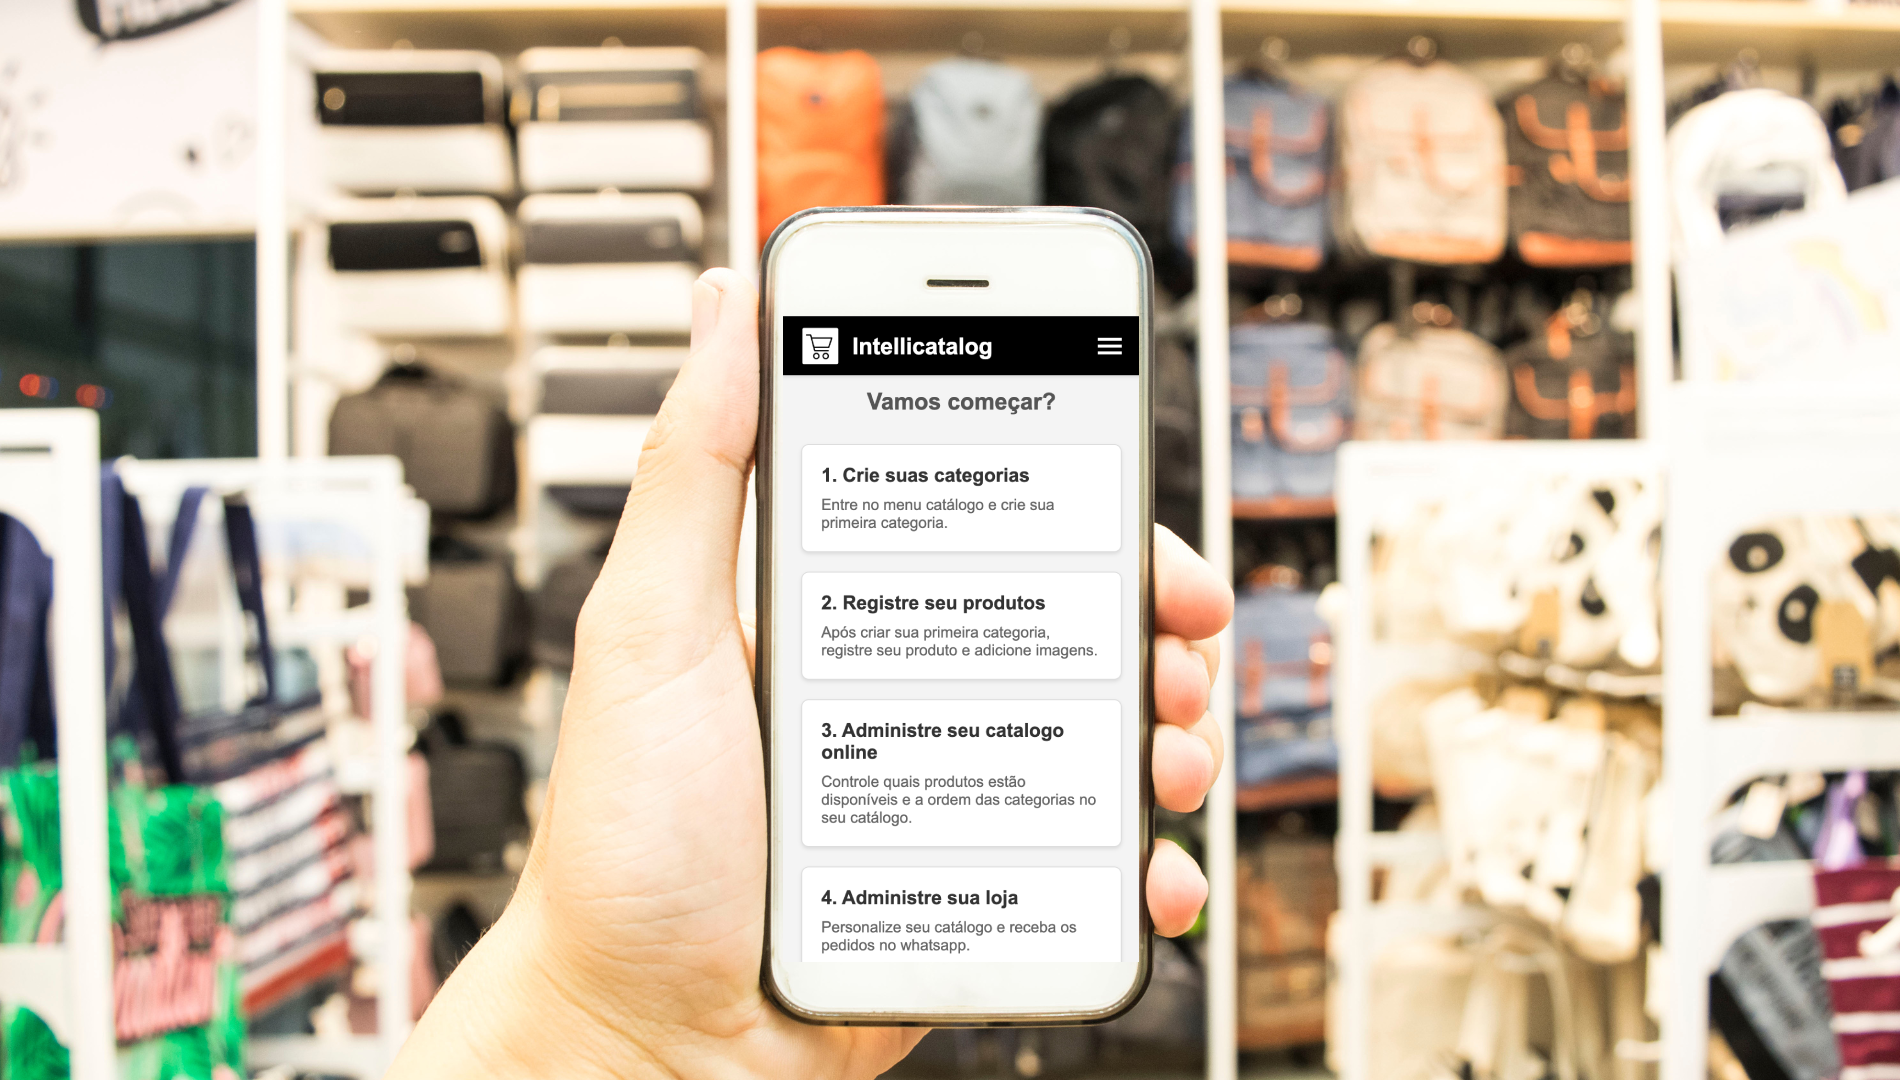
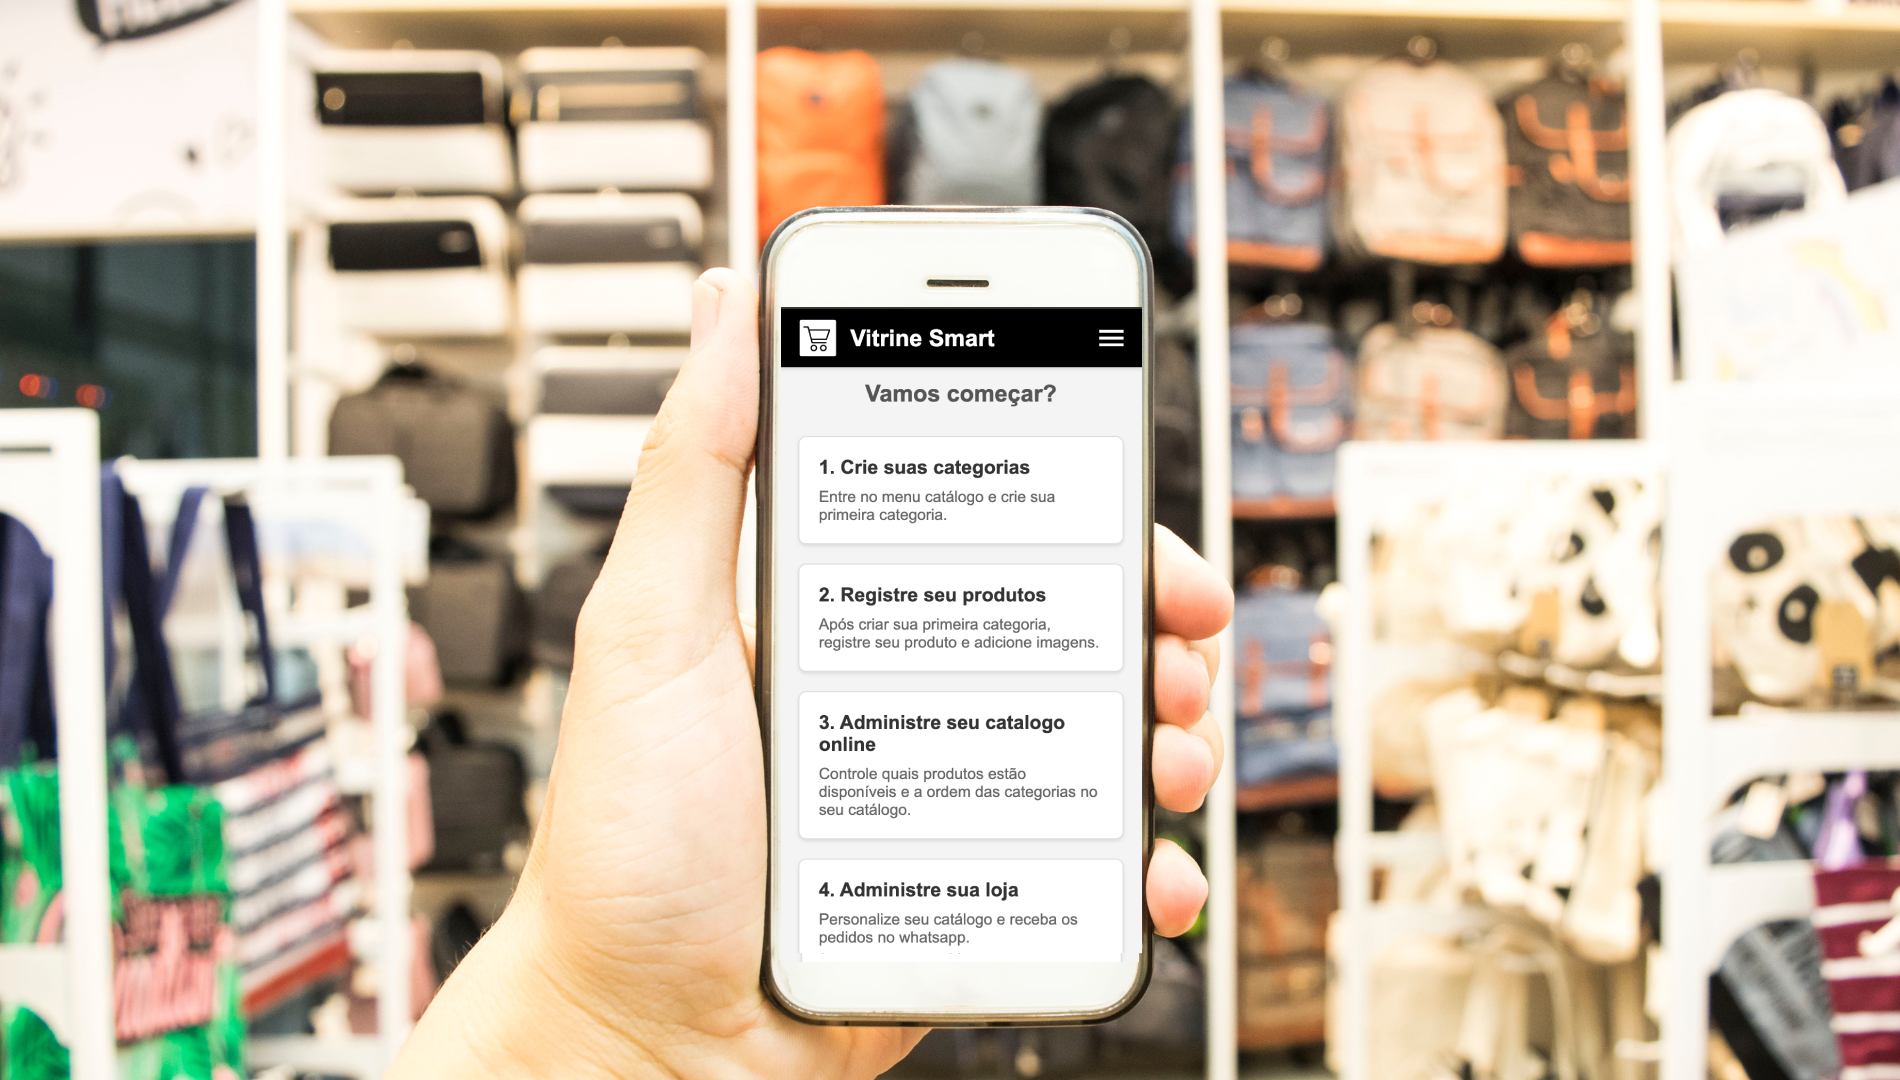
fix image and wordings

diff --git a/index.html b/index.html
@@ -5,7 +5,7 @@
         <meta name="viewport" content="width=device-width, initial-scale=1, shrink-to-fit=no" />
         <meta name="description" content="" />
         <meta name="author" content="" />
-        <title>Intellicatalog - Seu catálogo inteligente</title>
+        <title>Vitrine Smart - Seu catálogo inteligente</title>
         <!-- Favicon-->
         <link rel="icon" type="image/x-icon" href="assets/favicon.png" />
         <!-- Bootstrap icons-->
@@ -22,8 +22,8 @@
         <!-- Navigation-->
         <nav class="navbar navbar-light bg-light static-top">
             <div class="container">
-                <a class="navbar-brand" href="#!">Intellicatalog</a>
-                <a class="btn btn-dark" href="#signup">Acesse aqui</a>
+                <a class="navbar-brand" href="#!">Vitrine Smart</a>
+                <a class="btn btn-dark" href="https://www.vitrinesmart.com/b/">Acesse aqui</a>
             </div>
         </nav>
         <!-- Masthead-->
@@ -83,7 +83,7 @@
                     <div class="col-lg-6 order-lg-2 text-white showcase-img" style="background-image: url('assets/img/admin.png')"></div>
                     <div class="col-lg-6 order-lg-1 my-auto showcase-text">
                         <h2>Faça a gestão de seu catálogo de uma maneira simples e objetiva</h2>
-                        <p class="lead mb-0">No Intellicatalog é possível criar categorias, adicionar seus produtos e compartilhar seus produtos de uma maneira simples e atraente.</p>
+                        <p class="lead mb-0">No Vitrine Smart é possível criar categorias, adicionar seus produtos e compartilhar seus produtos de uma maneira simples e atraente.</p>
                     </div>
                 </div>
                 <div class="row g-0">
@@ -151,7 +151,7 @@
                 <div class="row">
                     <div class="col-lg-6 h-100 text-center text-lg-start my-auto">
                         
-                        <p class="text-muted small mb-4 mb-lg-0">&copy; Intellicatalog 2024.</p>
+                        <p class="text-muted small mb-4 mb-lg-0">&copy; Vitrine Smart 2024.</p>
                     </div>
                      
                 </div>
